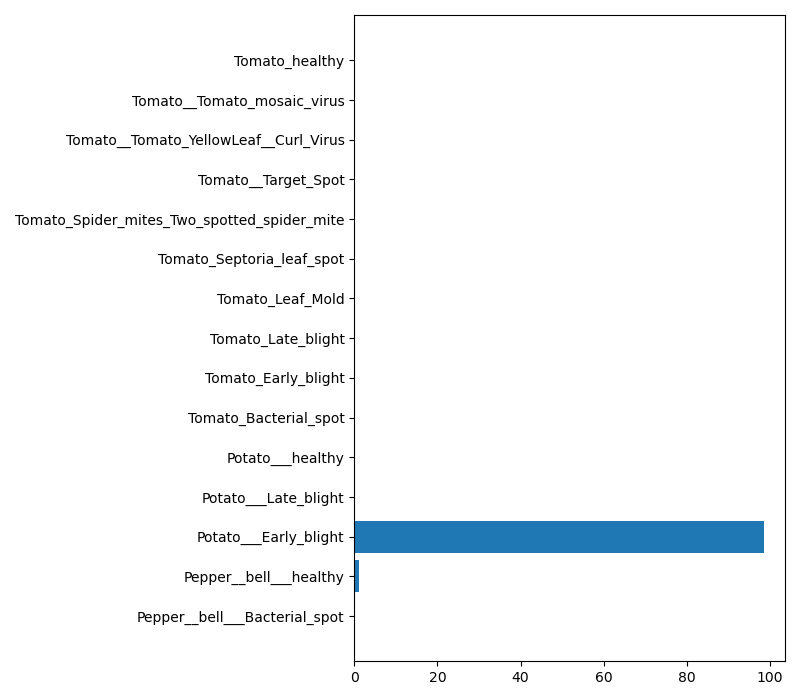
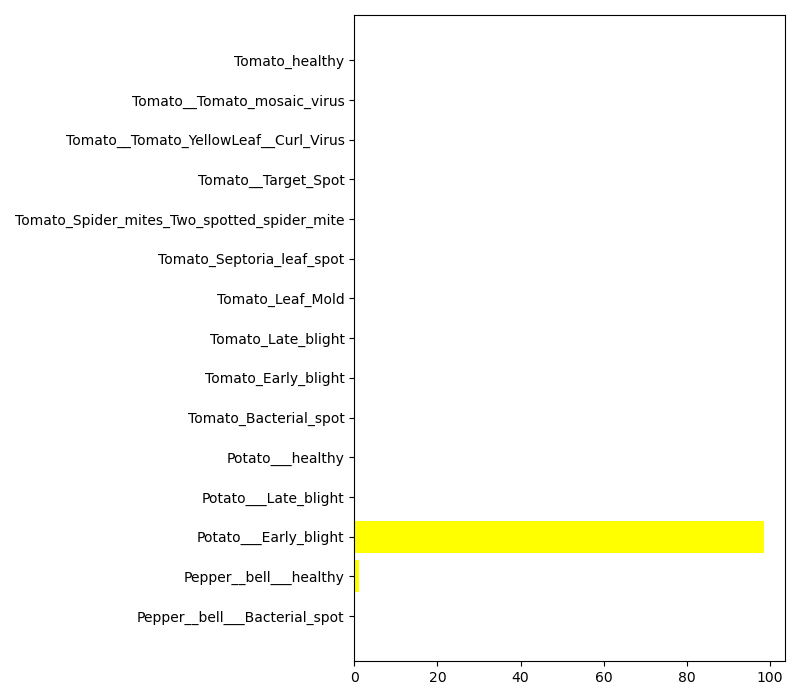
major changes mainly path and refresh

Changed region(s): [[0.4375, 0.72, 0.9688, 0.84]]

diff --git a/templates/plotting.html b/templates/plotting.html
@@ -10,7 +10,7 @@
     
     <h2> The output of the softmax layer is shown in the following graph</h2>
 
-    <img src='static/images/probability_bars.png' alt="Chart" >
+    <img src='../static/images/probability_bars.png' alt="Chart" >
 
 </body>
 </html>

diff --git a/app.py b/app.py
@@ -13,7 +13,7 @@ from flask import Response
 import matplotlib.pyplot as plt
 from matplotlib.backends.backend_agg import FigureCanvasAgg as FigureCanvas
 from matplotlib.figure import Figure
-
+import time 
 
 # Flask utils
 from flask import Flask, redirect, url_for, request, render_template
@@ -112,12 +112,14 @@ def upload():
 def breedplot():
     global disease_class
     global a
-
+    img_url='static/images/probability_bars.png'
     plt.figure(figsize=(8,7))
-    plt.barh(disease_class,a)   
+    plt.barh(disease_class,a,color='yellow')   
     plt.tight_layout()
-    plt.savefig('probability_bars.png')
-    return render_template('plotting.html', name = 'probability_bars', url ='static/images/probability_bars.png')
+    plt.savefig(img_url)
+    time.sleep(10)
+
+    return render_template('plotting.html', name = 'probability_bars', url = img_url)
 
 
 
